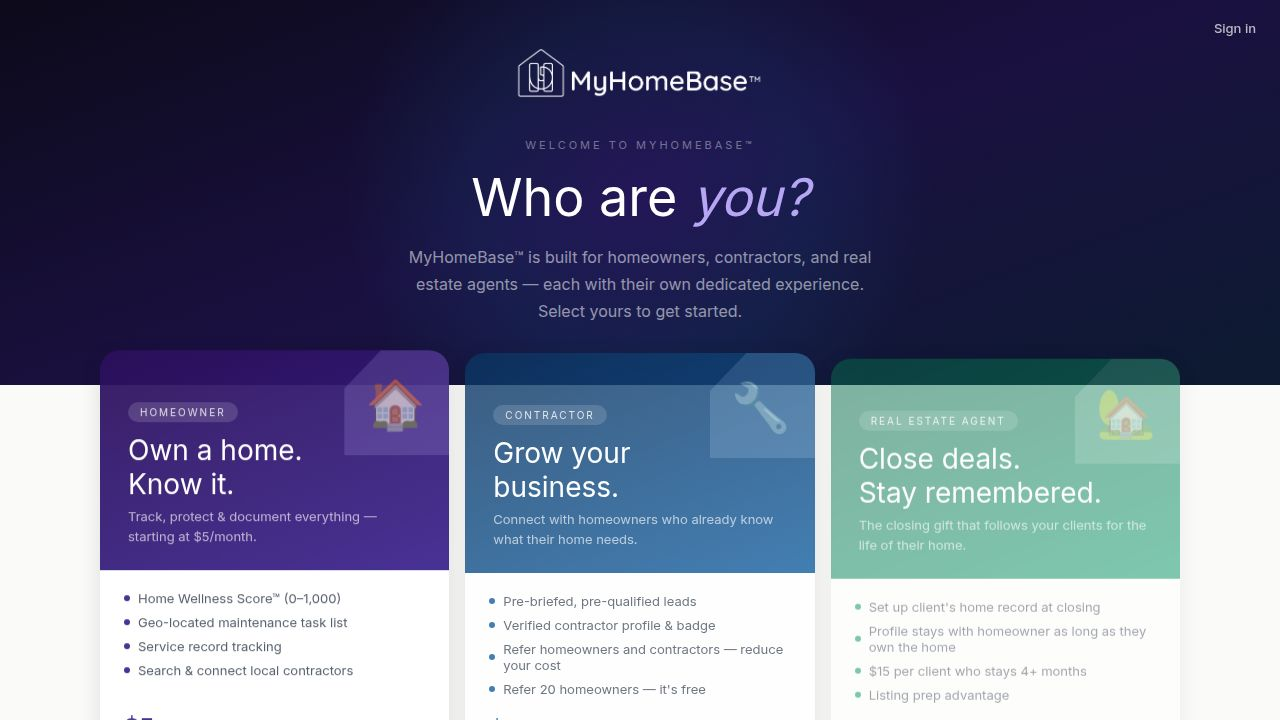
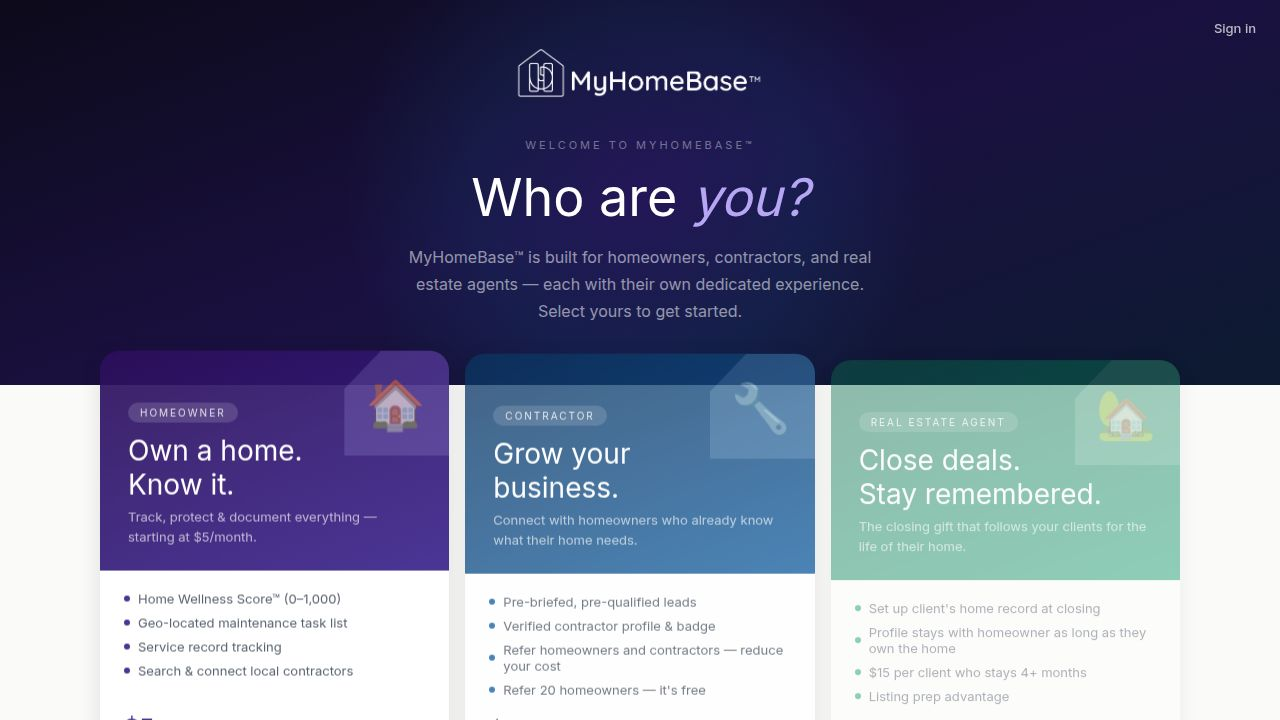
feat: Add team member audit trail for suspend/reactivate/remove actions
Task: Let owners see an audit trail of who suspended or removed a team member

## Changes

### Backend (artifacts/api-server/src/routes/routes.ts)
- Added `securityAuditLogs` to the @user/db import
- Suspend endpoint (~line 17361): writes an audit log entry after each suspension
  - Records actorUserId, actorName, targetUserId, targetName, companyId, action='suspended'
  - Uses existing `auditLogger.log()` with eventType ADMIN_USER_MODIFY, severity warning
  - Stores teamAction + companyId in actionDetails (JSONB) for scoped querying
- Reactivate endpoint (~line 17403): same pattern, action='reactivated', severity info
- Remove endpoint (~line 17526): same pattern, action='removed', severity warning
- New GET /api/contractor/team/:userId/audit-log endpoint (~line 17575):
  - Requires auth + owner/admin role (existing middleware)
  - Queries securityAuditLogs where targetUserId=userId AND targetResourceType='team_member'
    AND actionDetails->>'companyId' = session companyId (tenant-scoped)
  - Returns up to 20 most-recent entries: { id, teamAction, actorName, createdAt }

### Frontend (artifacts/myhomebase/src/pages/contractor-dashboard.tsx)
- Added Clock icon to lucide-react imports
- Added AuditEntry interface and MemberAuditHistory component (~line 167):
  - Fetches from /api/contractor/team/:memberId/audit-log
  - Displays color-coded activity rows: "Suspended by Jane Owner · May 27, 2026"
  - Colors: suspended=red, reactivated=green, removed=purple
[…]

diff --git a/artifacts/api-server/src/routes/routes.ts b/artifacts/api-server/src/routes/routes.ts
@@ -12,7 +12,7 @@ import { eq, and, ne, inArray, sql as drizzleSql, isNotNull, desc } from "drizzl
 import { insertHomeApplianceSchema, insertHomeApplianceManualSchema, insertMaintenanceLogSchema, insertContractorAppointmentSchema, insertConversationSchema, insertMessageSchema, insertContractorReviewSchema, insertCustomMaintenanceTaskSchema, insertProposalSchema, insertHomeSystemSchema, insertContractorBoostSchema, insertHouseSchema, insertHouseTransferSchema, insertContractorAnalyticsSchema, insertTaskOverrideSchema, insertTaskCompletionSchema, insertCompanySchema, insertCompanyInviteCodeSchema, updateHouseholdProfileSchema, passwordResetTokens, taskCompletions, customMaintenanceTasks, insertSupportTicketSchema, completeTaskSchema, insertCrmClientSchema, insertCrmJobSchema, insertCrmQuoteSchema, insertCrmInvoiceSchema, subscriptionPlans, securitySessions, referralCredits, referralFreeMonths, agentProfiles, users, siteContent, maintenanceLogs, homeAppliances, homeSystems, houses, taskOverrides, homeHandoffPackages, handoffDocuments, serviceRecords, contractorReviews, reviewRequests, insertReviewRequestSchema, insertReviewFlagSchema, homeDocuments, quizResults, type House } from "@workspace/db";
 import { calculateDIYSavingsAmount } from "../shared/cost-helpers";
 import { extractInvoiceData, verifyDIYPhotos, type InvoiceExtraction } from "../invoice-analysis-service";
-import { invoiceAnalyses, contractorBoosts, affiliateReferrals, subscriptionCycleEvents, contractorInvoiceUploads, companies, proposals } from "@workspace/db";
+import { invoiceAnalyses, contractorBoosts, affiliateReferrals, subscriptionCycleEvents, contractorInvoiceUploads, companies, proposals, securityAuditLogs } from "@workspace/db";
 import pushRoutes from "../push-routes";
 import { pushService } from "../push-service";
 import { ObjectStorageService, ObjectNotFoundError } from "../objectStorage";
@@ -17375,6 +17375,21 @@ IMPORTANT: Extract EVERY appliance and mechanical system mentioned in the report
 
       await db.update(users).set({ status: 'suspended', updatedAt: new Date() } as any).where(eq(users.id, userId));
       suspendedUserIds.add(userId);
+      const actorName = [adminUser.firstName, adminUser.lastName].filter(Boolean).join(' ') || adminUser.email || adminUser.id;
+      const targetName = [(targetUser as any).firstName, (targetUser as any).lastName].filter(Boolean).join(' ') || (targetUser as any).email || userId;
+      await auditLogger.log({
+        eventType: AuditEventTypes.ADMIN_USER_MODIFY,
+        action: 'Team member suspended',
+        userId: adminUser.id,
+        userEmail: adminUser.email,
+        userRole: adminUser.companyRole,
+        targetUserId: userId,
+        targetResourceType: 'team_member',
+        targetResourceId: userId,
+        actionDetails: { teamAction: 'suspended', companyId: adminUser.companyId, actorName, targetName },
+        req,
+        severity: 'warning' as any,
+      });
       res.json({ message: "Team member suspended" });
     } catch (error) {
       req.log?.error({ error }, '[ENTERPRISE] Error suspending team member');
@@ -17400,6 +17415,21 @@ IMPORTANT: Extract EVERY appliance and mechanical system mentioned in the report
 
       await db.update(users).set({ status: 'active', updatedAt: new Date() } as any).where(eq(users.id, userId));
       suspendedUserIds.delete(userId);
+      const actorName = [adminUser.firstName, adminUser.lastName].filter(Boolean).join(' ') || adminUser.email || adminUser.id;
+      const targetName = [(targetUser as any).firstName, (targetUser as any).lastName].filter(Boolean).join(' ') || (targetUser as any).email || userId;
+      await auditLogger.log({
+        eventType: AuditEventTypes.ADMIN_USER_MODIFY,
+        action: 'Team member reactivated',
+        userId: adminUser.id,
+        userEmail: adminUser.email,
+        userRole: adminUser.companyRole,
+        targetUserId: userId,
+        targetResourceType: 'team_member',
+        targetResourceId: userId,
+        actionDetails: { teamAction: 'reactivated', companyId: adminUser.companyId, actorName, targetName },
+        req,
+        severity: 'info' as any,
+      });
       res.json({ message: "Team member reactivated" });
     } catch (error) {
       req.log?.error({ error }, '[ENTERPRISE] Error reactivating team member');
@@ -17517,10 +17547,62 @@ IMPORTANT: Extract EVERY appliance and mechanical system mentioned in the report
       } as any).where(eq(users.id, userId));
       // Add to in-memory blocklist so any active session is immediately revoked
       suspendedUserIds.add(userId);
+      const actorName = [adminUser.firstName, adminUser.lastName].filter(Boolean).join(' ') || adminUser.email || adminUser.id;
+      const targetName = [(targetUser as any).firstName, (targetUser as any).lastName].filter(Boolean).join(' ') || (targetUser as any).email || userId;
+      await auditLogger.log({
+        eventType: AuditEventTypes.ADMIN_USER_MODIFY,
+        action: 'Team member removed',
+        userId: adminUser.id,
+        userEmail: adminUser.email,
+        userRole: adminUser.companyRole,
+        targetUserId: userId,
+        targetResourceType: 'team_member',
+        targetResourceId: userId,
+        actionDetails: { teamAction: 'removed', companyId: adminUser.companyId, actorName, targetName },
+        req,
+        severity: 'warning' as any,
+      });
       res.json({ message: "Team member removed from company" });
     } catch (error) {
       req.log?.error({ error }, '[ENTERPRISE] Error removing tech');
       res.status(500).json({ message: "Failed to remove team member" });
+    }
+  });
+
+  // Fetch audit trail for a specific team member (owner/admin only, scoped to their company)
+  app.get('/api/contractor/team/:userId/audit-log', isAuthenticated, requireNotSuspended(), requireCompanyRole('owner', 'admin'), async (req: any, res) => {
+    try {
+      const { userId } = req.params;
+      const sessionUser = req.session.user;
+      if (!sessionUser.companyId) return res.status(400).json({ message: "You must belong to a company" });
+
+      const logs = await db
+        .select({
+          id: securityAuditLogs.id,
+          action: securityAuditLogs.action,
+          actionDetails: securityAuditLogs.actionDetails,
+          createdAt: securityAuditLogs.createdAt,
+        })
+        .from(securityAuditLogs)
+        .where(
+          and(
+            eq(securityAuditLogs.targetUserId, userId),
+            eq(securityAuditLogs.targetResourceType, 'team_member'),
+            drizzleSql`(${securityAuditLogs.actionDetails}->>'companyId') = ${sessionUser.companyId}`
+          )
+        )
+        .orderBy(desc(securityAuditLogs.createdAt))
+        .limit(20);
+
+      res.json(logs.map(l => ({
+        id: l.id,
+        teamAction: (l.actionDetails as any)?.teamAction ?? null,
+        actorName: (l.actionDetails as any)?.actorName ?? null,
+        createdAt: l.createdAt,
+      })));
+    } catch (error) {
+      req.log?.error({ error }, '[ENTERPRISE] Error fetching team audit log');
+      res.status(500).json({ message: "Failed to fetch audit log" });
     }
   });
 

diff --git a/artifacts/myhomebase/src/pages/contractor-dashboard.tsx b/artifacts/myhomebase/src/pages/contractor-dashboard.tsx
@@ -45,6 +45,7 @@ import {
   ExternalLink,
   Pencil,
   X,
+  Clock,
 } from "lucide-react";
 import type { User as UserType, Proposal, ContractorAppointment } from "@shared/schema";
 import { Link } from "wouter";
@@ -152,6 +153,67 @@ function TechJobHistory({ memberId, memberName }: { memberId: string; memberName
               >
                 <ExternalLink size={12} />
               </a>
+            </div>
+          );
+        })}
+      </div>
+    </div>
+  );
+}
+
+interface AuditEntry {
+  id: string;
+  teamAction: 'suspended' | 'reactivated' | 'removed' | null;
+  actorName: string | null;
+  createdAt: string;
+}
+
+function MemberAuditHistory({ memberId }: { memberId: string }) {
+  const { data: entries = [], isLoading } = useQuery<AuditEntry[]>({
+    queryKey: ['/api/contractor/team', memberId, 'audit-log'],
+    queryFn: async () => {
+      const res = await fetch(`/api/contractor/team/${memberId}/audit-log`, { credentials: 'include' });
+      if (!res.ok) throw new Error('Failed to fetch audit log');
+      return res.json();
+    },
+  });
+
+  if (isLoading) {
+    return <div style={{ padding: '6px 0 2px', color: '#94a3b8', fontSize: 11 }}>Loading activity…</div>;
+  }
+
+  if (!entries.length) {
+    return <div style={{ padding: '6px 0 2px', color: '#94a3b8', fontSize: 11 }}>No activity recorded yet.</div>;
+  }
+
+  const actionLabel: Record<string, { label: string; color: string }> = {
+    suspended: { label: 'Suspended', color: '#dc2626' },
+    reactivated: { label: 'Reactivated', color: '#09694a' },
+    removed: { label: 'Removed', color: '#7c3aed' },
+  };
+
+  return (
+    <div style={{ marginTop: 10 }}>
+      <div style={{ fontSize: 11, fontWeight: 700, color: '#64748b', textTransform: 'uppercase', letterSpacing: '0.05em', marginBottom: 6 }}>
+        Activity · {entries.length} event{entries.length !== 1 ? 's' : ''}
+      </div>
+      <div style={{ display: 'flex', flexDirection: 'column', gap: 4 }}>
+        {entries.map(entry => {
+          const meta = actionLabel[entry.teamAction ?? ''] ?? { label: entry.teamAction ?? 'Action', color: '#64748b' };
+          const dateStr = format(new Date(entry.createdAt), 'MMM d, yyyy');
+          const byLine = entry.actorName ? ` by ${entry.actorName}` : '';
+          return (
+            <div key={entry.id} style={{
+              display: 'flex', alignItems: 'center', gap: 8,
+              background: '#f8fafc', borderRadius: 8, padding: '6px 10px',
+              border: '1px solid #e2e8f0',
+            }}>
+              <Clock size={12} style={{ color: '#94a3b8', flexShrink: 0 }} />
+              <div style={{ flex: 1, fontSize: 12, color: '#374151' }}>
+                <span style={{ fontWeight: 600, color: meta.color }}>{meta.label}</span>
+                {byLine}
+                <span style={{ color: '#94a3b8', marginLeft: 4 }}>· {dateStr}</span>
+              </div>
             </div>
           );
         })}
@@ -747,6 +809,11 @@ export default function ContractorDashboard() {
                     {isExpanded && (
                       <div style={{ borderTop: '1px solid #e2e8f0', marginTop: 10, paddingTop: 4 }}>
                         <TechJobHistory memberId={member.id} memberName={fullName} />
+                        {isOwner && (
+                          <div style={{ marginTop: 10, paddingTop: 10, borderTop: '1px solid #f1f5f9' }}>
+                            <MemberAuditHistory memberId={member.id} />
+                          </div>
+                        )}
                       </div>
                     )}
 